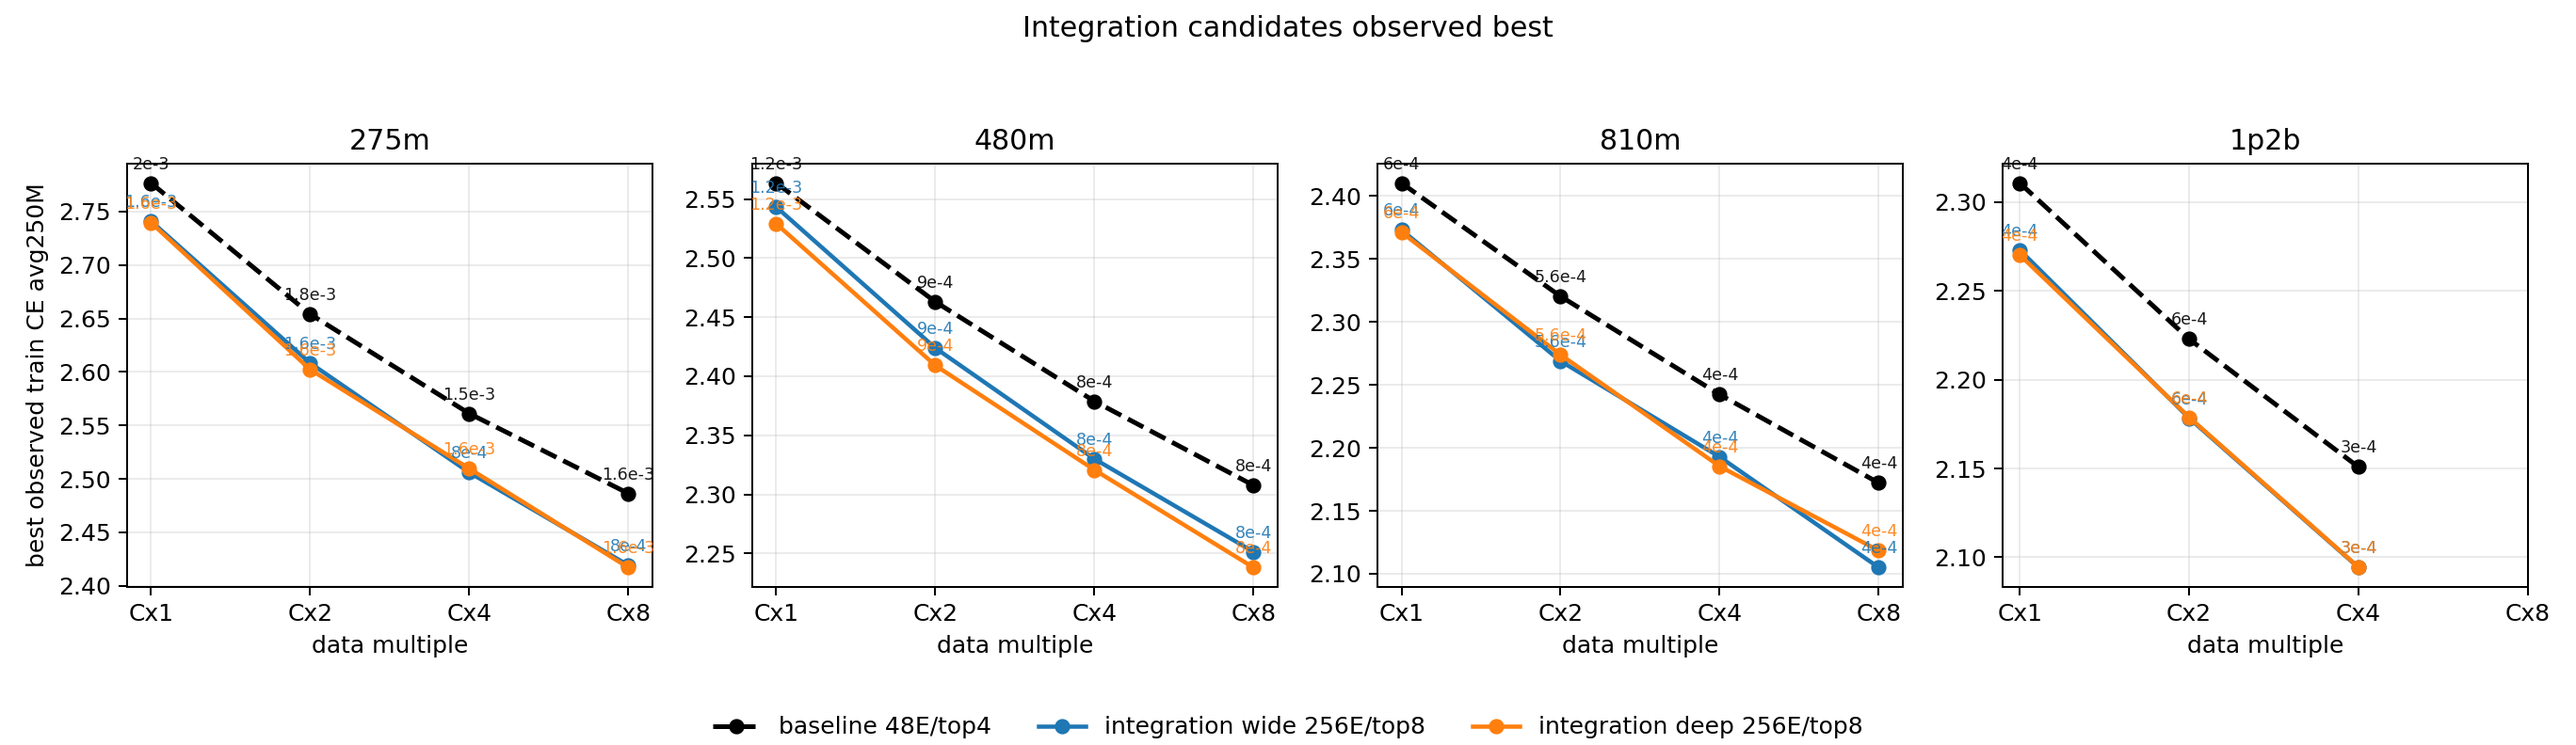
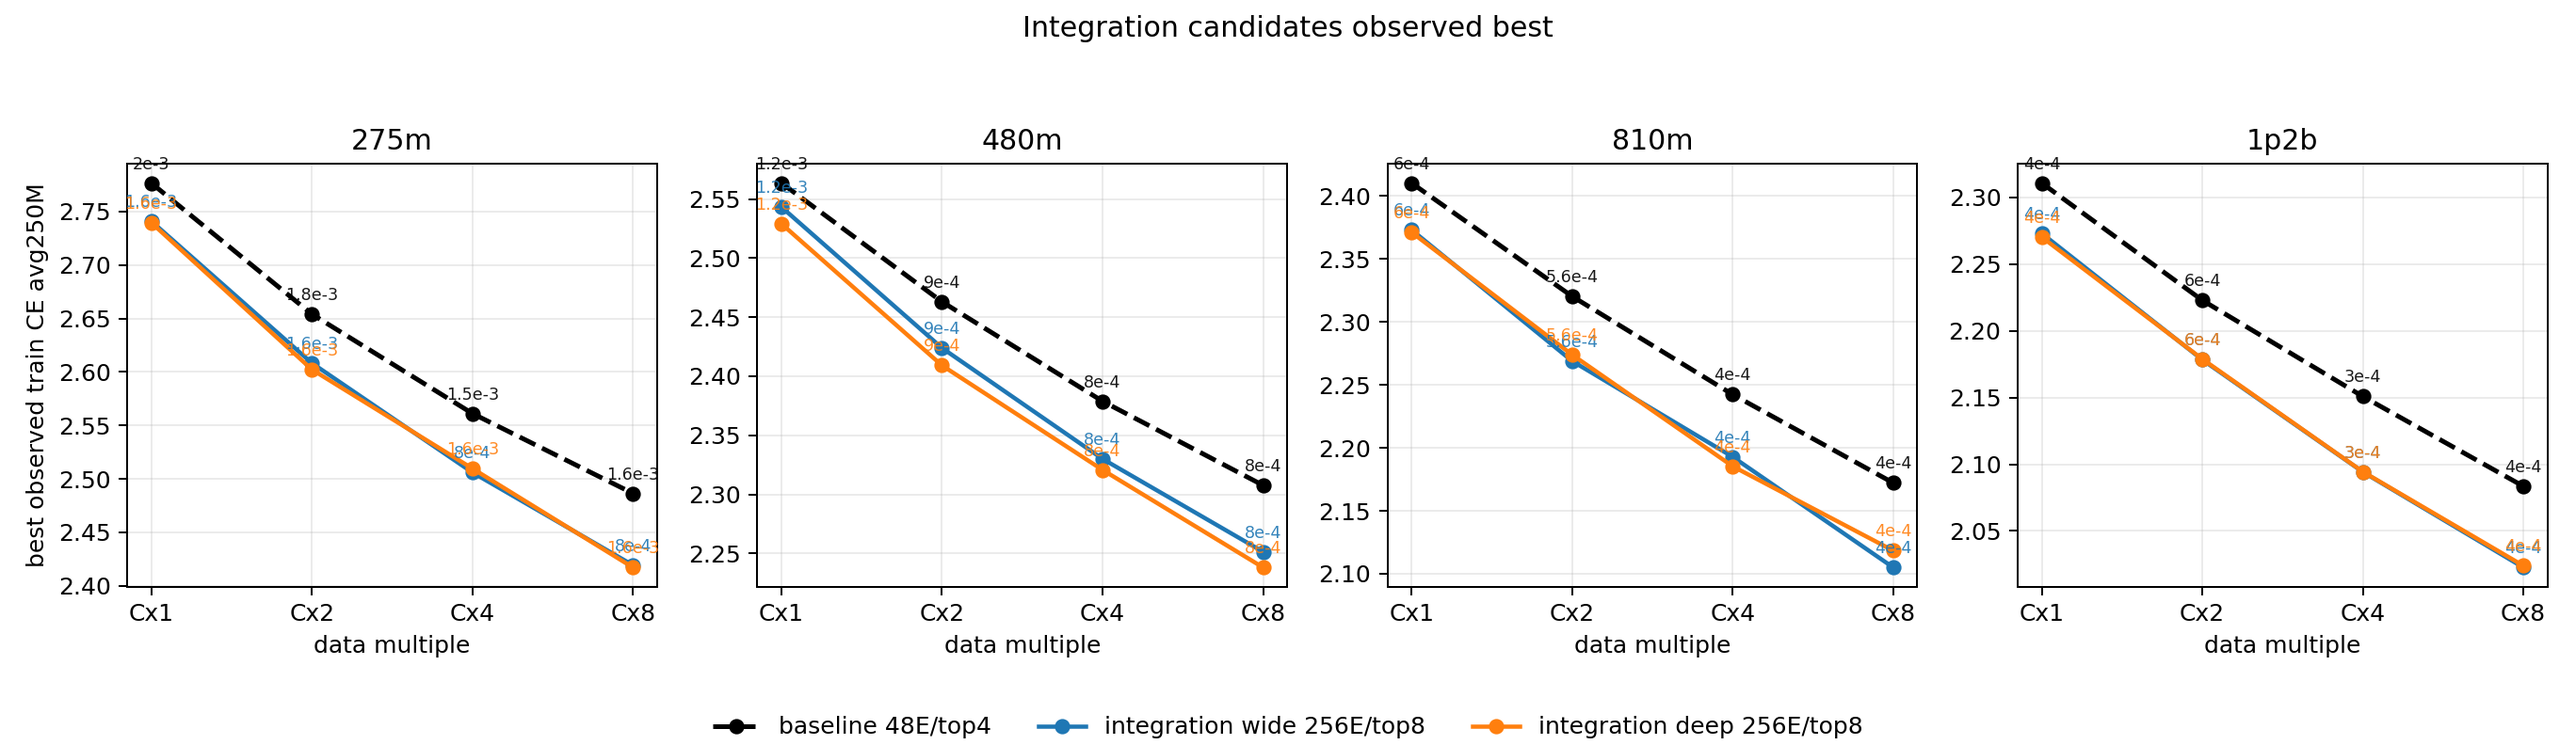
Refresh ladder plots and eval pages

diff --git a/src/scripts/train/jacobm_olmoe_ladder/results/optimal_losses.md b/src/scripts/train/jacobm_olmoe_ladder/results/optimal_losses.md
@@ -1,6 +1,6 @@
 # Optimal Loss Values
 
-Generated: 2026-07-04 04:26 UTC
+Generated: 2026-07-10 22:22 UTC
 
 Source: `/weka/oe-adapt-default/jacobm/olmoe3/OLMo-core/src/scripts/train/jacobm_olmoe_ladder/PLOTTED_RESULTS.md`. Values mirror the completed-run plotting policy: final-window training CE averaged over the last 250M tokens, running jobs excluded.
 
@@ -318,4 +318,17 @@ Source: `/weka/oe-adapt-default/jacobm/olmoe3/OLMo-core/src/scripts/train/jacobm
 | 810M | Cx2 | integration deep 256E/top8 | 5.6e-4 | 2.2740 |  |  | 1 |
 | 810M | Cx2 | integration wide 256E/top8 | 5.6e-4 | 2.2689 |  |  | 1 |
 | 810M | Cx4 | baseline 48E/top4 | 4e-4 | 2.2424 | 0.000514 | 2.2412 | 4 |
+| 810M | Cx4 | integration deep 256E/top8 | 4e-4 | 2.1853 |  |  | 1 |
 | 810M | Cx4 | integration wide 256E/top8 | 4e-4 | 2.1928 |  |  | 1 |
+| 810M | Cx8 | baseline 48E/top4 | 4e-4 | 2.1721 | 0.000467 | 2.1717 | 3 |
+| 810M | Cx8 | integration deep 256E/top8 | 4e-4 | 2.1183 |  |  | 1 |
+| 810M | Cx8 | integration wide 256E/top8 | 4e-4 | 2.1049 |  |  | 1 |
+| 1.2B | Cx1 | baseline 48E/top4 | 4e-4 | 2.3108 | 0.000483 | 2.3101 | 4 |
+| 1.2B | Cx1 | integration deep 256E/top8 | 4e-4 | 2.2703 |  |  | 1 |
+| 1.2B | Cx1 | integration wide 256E/top8 | 4e-4 | 2.2731 |  |  | 1 |
+| 1.2B | Cx2 | baseline 48E/top4 (b384k) | 6e-4 | 2.2229 | 0.000442 | 2.2204 | 4 |
+| 1.2B | Cx2 | integration deep 256E/top8 | 6e-4 | 2.1788 |  |  | 1 |
+| 1.2B | Cx2 | integration wide 256E/top8 | 6e-4 | 2.1783 |  |  | 1 |
+| 1.2B | Cx4 | baseline 48E/top4 | 3e-4 | 2.1508 | 0.000366 | 2.1500 | 4 |
+| 1.2B | Cx4 | integration deep 256E/top8 | 3e-4 | 2.0944 |  |  | 1 |
+| 1.2B | Cx4 | integration wide 256E/top8 | 3e-4 | 2.0942 |  |  | 1 |

diff --git a/src/scripts/train/jacobm_olmoe_ladder/results/olmobase_evals.md b/src/scripts/train/jacobm_olmoe_ladder/results/olmobase_evals.md
@@ -1,6 +1,6 @@
 # OLMoBase Eval Results
 
-Generated: 2026-07-10 20:43 UTC
+Generated: 2026-07-10 22:22 UTC
 
 Values are suite-level aggregates emitted by `olmo-eval`. Higher is better for accuracy/F1/pass-style metrics; lower is better for BPB/loss/perplexity-style metrics. The `direction` column is a heuristic based on suite/metric names, so treat `see metric` rows literally.
 

diff --git a/src/scripts/train/jacobm_olmoe_ladder/results/in_loop_evals.md b/src/scripts/train/jacobm_olmoe_ladder/results/in_loop_evals.md
@@ -1,6 +1,6 @@
 # In-Loop Eval Results
 
-Generated: 2026-07-10 20:43 UTC
+Generated: 2026-07-10 22:23 UTC
 
 Values are the latest W&B summary values for each selected run. Higher is better for accuracy/F1/pass-style metrics; lower is better for BPB/loss/perplexity-style metrics. Values marked `see metric` need manual interpretation.
 

diff --git a/src/scripts/train/jacobm_olmoe_ladder/results/midtraining_validation.md b/src/scripts/train/jacobm_olmoe_ladder/results/midtraining_validation.md
@@ -1,6 +1,6 @@
 # Midtraining Validation Results
 
-Generated: 2026-07-10 20:43 UTC
+Generated: 2026-07-10 22:23 UTC
 
 Interpretation: lower is better for CE loss, PPL, Z loss, router Z loss, and load-balancing loss; higher is better for MFU/TPS. Accuracy-style validation metrics are higher-is-better when present.
 
